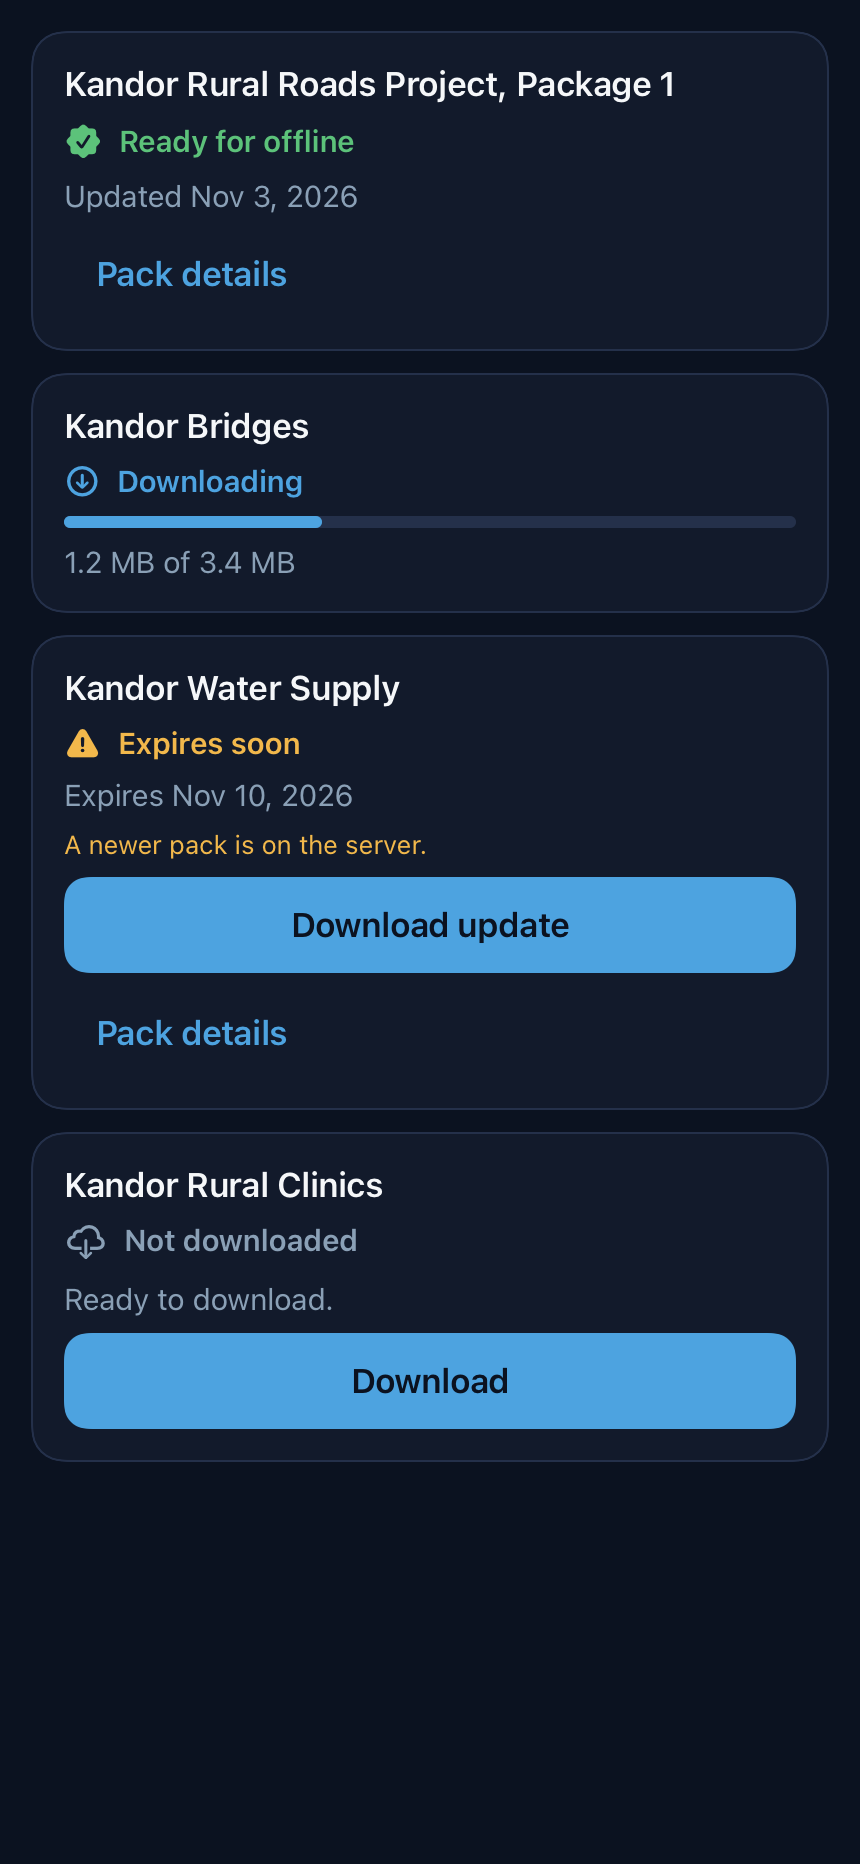
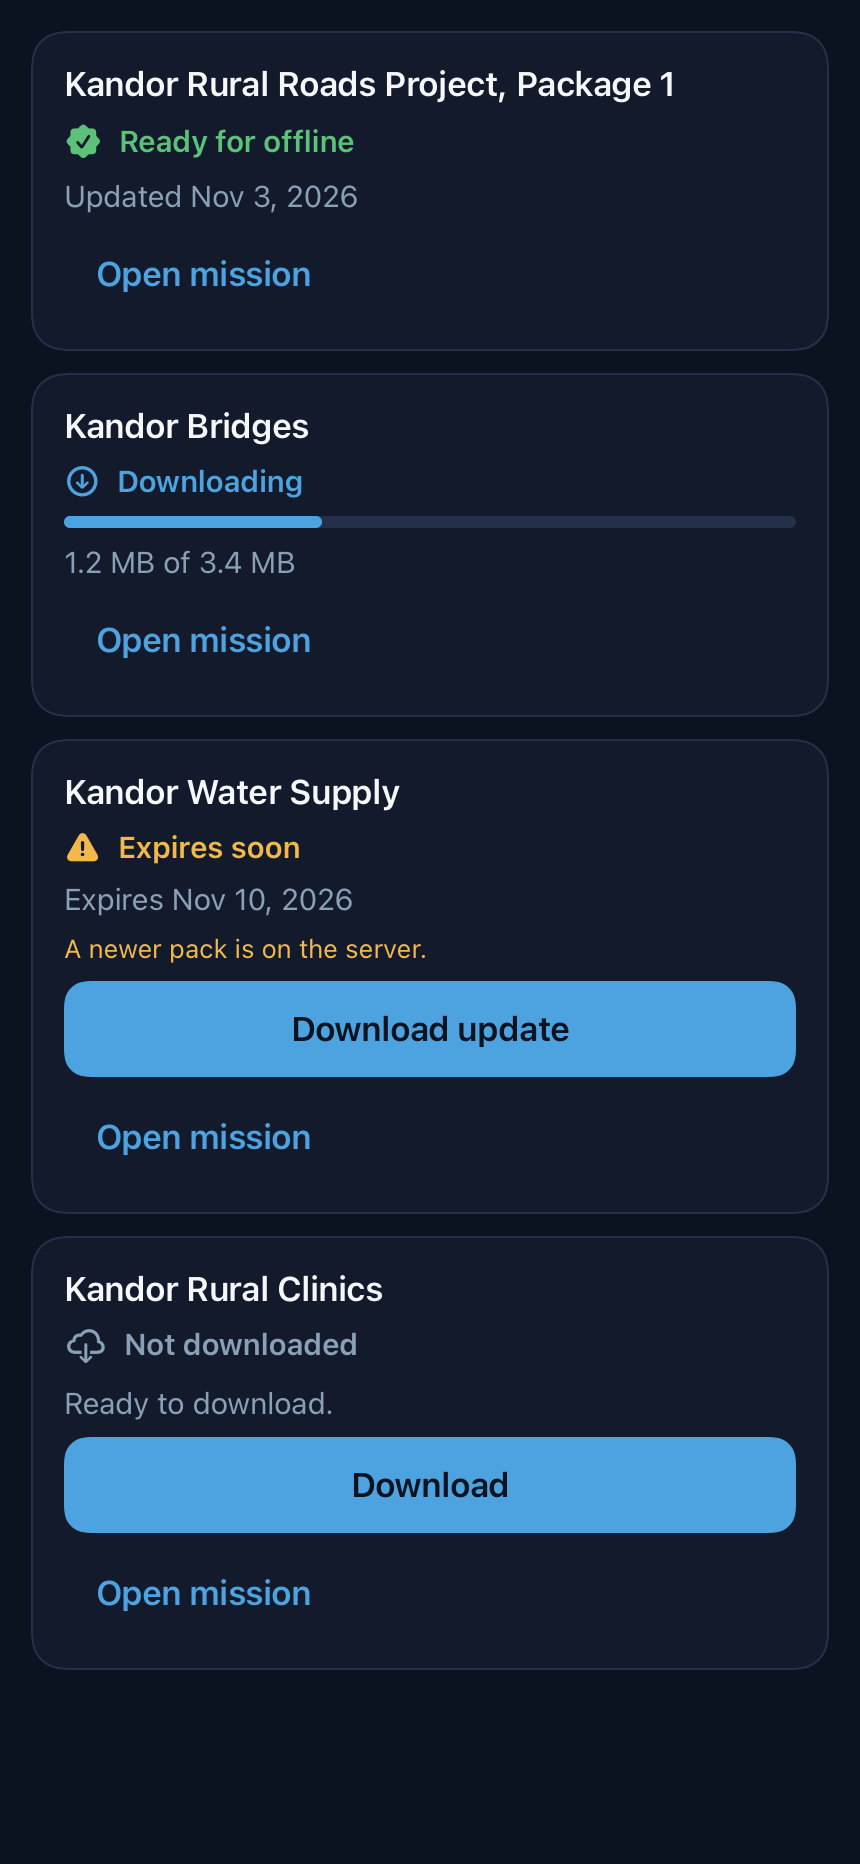
Docs for 6.1: the model inside the app, the workspace (#125, step 6.1.6)
ADR 0004: the model ships inside the app (Lubo, Nov 5), not downloaded; how the
build copies it, the size, Debug and CI, the license on the Licenses screen.
Threat model T46: checked before it is trusted when shipped in the app too,
with its tests. Data handling and docs/models: where the model lives. Theme
page: the workspace in light, dark and largest text; the mission cards' new
Open mission. README: Before you go.

diff --git a/docs/threat-model.md b/docs/threat-model.md
@@ -161,7 +161,7 @@ S spoofing, T tampering, R repudiation, I information disclosure, D denial of se
 ### B9 Imports and supply chain
 | ID | STRIDE | Threat | Control | Status | Test or phase |
 |---|---|---|---|---|---|
-| T46 | T | A model file is swapped or changed (ATLAS AML.T0010) | OpenSSF Model Signing bundle over every file, checked with CryptoKit before import and before every load; key pinned; safetensors only | built | `ios/MissionCopilotTests/ModelSignatureTests.swift`, `ios/MissionCopilotTests/ModelStoreTests.swift` |
+| T46 | T | A model file is swapped or changed (ATLAS AML.T0010) | OpenSSF Model Signing bundle over every file, checked with CryptoKit before import and before every load; key pinned; safetensors only. The model ships inside the signed app (#125): the build copies only the signed files, and the app still checks them before it trusts them (verified, not in this build, or refused), proven on the iPhone | built | `ios/MissionCopilotTests/ModelSignatureTests.swift`, `ios/MissionCopilotTests/ModelStoreTests.swift`, `ios/MissionCopilotTests/BundledModelTests.swift`, `scripts/test_bundle_model.py` |
 | T47 | T | A dependency has a known vulnerability | pip-audit on every PR and weekly; CodeQL (Python, Actions; Swift weekly); Dependabot with a 7-day cooldown | built | `.github/workflows/security.yml`, `.github/dependabot.yml` |
 | T48 | T | A compromised CI action steals secrets | Actions pinned to commit SHAs, minimal token permissions, zizmor lint | built | `.github/workflows/ci.yml` |
 | T49 | I | A secret is committed | gitleaks on every commit and in CI over the full history | built | `.github/workflows/ci.yml` |

diff --git a/docs/adr/0004-on-device-model-choice.md b/docs/adr/0004-on-device-model-choice.md
@@ -32,7 +32,13 @@ settings.
 - **License:** LFM2.5 ships under its own license, which may require a commercial agreement for large
   organizations; Qwen3 is Apache 2.0. A large organization adopting this should check the terms and can
   switch to the backup with no design change.
-- Model files are not stored in the repo; the app downloads them.
+- Model files are not stored in the repo (633 MB is too big for git). **They ship inside the app** (Lubo,
+  Nov 5 2026, #125): ready on install, never a separate download. The build copies exactly the files the
+  signature lists, plus the signature (`scripts/bundle_model.py`), into the Staging and Release builds,
+  which makes the app about 640 MB; Debug builds ship none (the Lab imports one through Finder) and a Mac
+  without the model builds anyway. The app checks the copy against the pinned key before it trusts it
+  (`BundledModel`, threat T46), and the license text, with the notice that this is the 4-bit MLX
+  conversion, is on the Licenses screen, as the LFM Open License v1.0 asks (Section 4).
 
 ## Engine decision (spike #12, Oct 30 2026)
 Both engines ran LFM2.5 1.2B inside our own app on the iPhone 13 Pro Max in airplane mode, 12 runs each,

diff --git a/docs/design/theme.md b/docs/design/theme.md
@@ -66,6 +66,16 @@ brand medallion at rest (the tests turn its motion off) above the app's name.
 |---|---|---|
 | ![Home, light](img/home-light.png) | ![Home, dark](img/home-dark.png) | ![Home, largest text](img/home-largest-text.png) |
 
+| Workspace, light | Workspace, dark | Workspace, largest text |
+|---|---|---|
+| ![Mission workspace, light](img/workspace-light.png) | ![Mission workspace, dark](img/workspace-dark.png) | ![Mission workspace, largest text](img/workspace-largest-text.png) |
+
+The mission workspace (#125) opens from "Open mission" on a card: a small, still medallion, the mission and
+its pack, and **Before you go** on glass. Each line is an icon and words (Ready, Getting ready, To do, Not
+available), never color alone; a speech language that is missing has its Install button, and what needs a
+connection says so. The small medallion is an exact copy of the home one: its marks take its own scale, so
+nothing spills out at any text size.
+
 | Missions, light | Missions, dark | Missions, largest text |
 |---|---|---|
 | ![Mission list, light](img/missions-light.png) | ![Mission list, dark](img/missions-dark.png) | ![Mission list, largest text](img/missions-largest-text.png) |

diff --git a/docs/models/README.md b/docs/models/README.md
@@ -20,6 +20,13 @@ python3 scripts/sign_model.py verify <model folder> docs/models/model-signing.pu
 This runs the official tool, pinned. A changed byte answers "Hash mismatch"; an extra file answers
 "Extra files found".
 
+## Inside the app (#125)
+The model ships inside the Staging and Release builds: `scripts/bundle_model.py` copies exactly the 9 signed
+files and this bundle into the app (a Hub download also holds its own `.cache`, which the check would refuse
+as extra files). The app checks them against the pinned key before it trusts them; on the iPhone the mission
+workspace's "Before you go" shows "AI assistant: Ready, on this iPhone, checked". The license text is on the
+app's Licenses screen.
+
 ## On the iPhone
 Measured on an iPhone 13 Pro Max in airplane mode ([results](../spikes/results/model-signature-iphone13promax.json)):
 all 9 files verified in **0.59 s** on the first run and **0.37 s** on the next two, with no change in free memory.

diff --git a/README.md b/README.md
@@ -31,6 +31,9 @@ Built so far (each part test-first, the store and the pack proven on an iPhone 1
 - **Download a mission pack**: signed by the organization's server, every file checked; it survives a cut
   signal, the phone locking and a server restart, and an update fetches only the files that changed
   ([pack proof](docs/pack-proof.md)).
+- **Before you go**: open a mission and the phone checks itself for the field: the pack, the AI model
+  (inside the app, checked against its signature), the speech languages the mission needs, free space;
+  what is missing says what to do while still online.
 - **Keep it on the phone, encrypted**: one key per mission, a 14-day lease, a hash-chained audit log, an app
   lock; it works in airplane mode ([store proof](docs/store-proof.md)).
 - **Destroy it on order**: a revoked phone gets a signed shred order and the missions are destroyed.

diff --git a/docs/data-handling.md b/docs/data-handling.md
@@ -41,4 +41,5 @@ encrypted (restic). See [ADR 0013](adr/0013-hosting-on-a-shared-server.md) for w
 | Backups (every database, the roles, the server's secrets) | Each environment's own restic repository in a private bucket | 7 daily, 5 weekly, 6 monthly snapshots (about 6 months) | restic (AES-256, its own password) and the bucket's own encryption | Whoever holds the restic password: the server's root, and one copy off the server | The backup bucket's provider | restic forgets and prunes older snapshots; the bucket keeps only a file's last version |
 
 **Not on this sheet because they are not data about anyone:** the on-device model (public, signed, see
-[docs/models](models/README.md)) and the fictional demo dataset.
+[docs/models](models/README.md); it ships inside the app, read-only, and is checked before it is trusted)
+and the fictional demo dataset.
